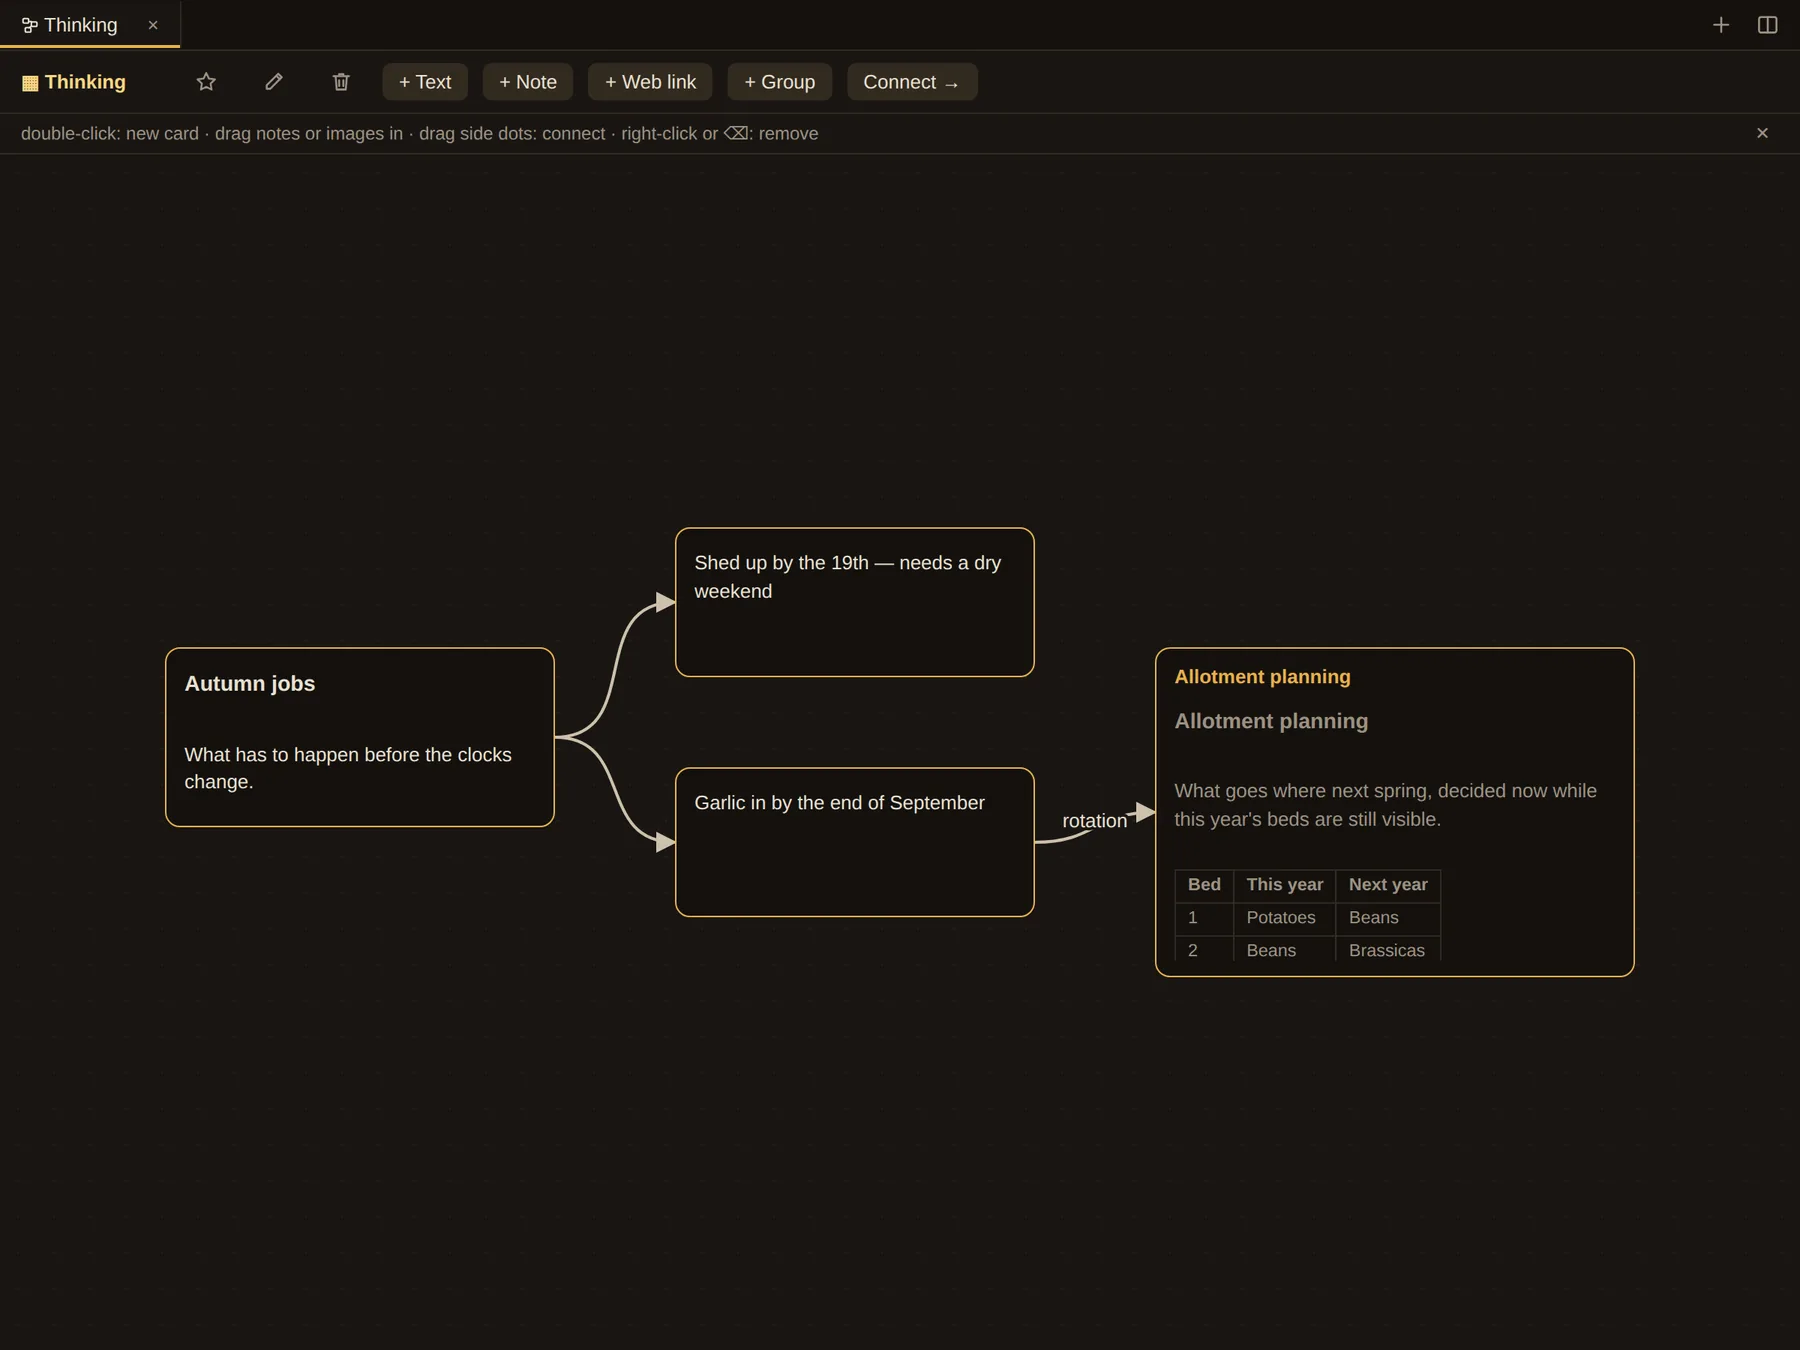
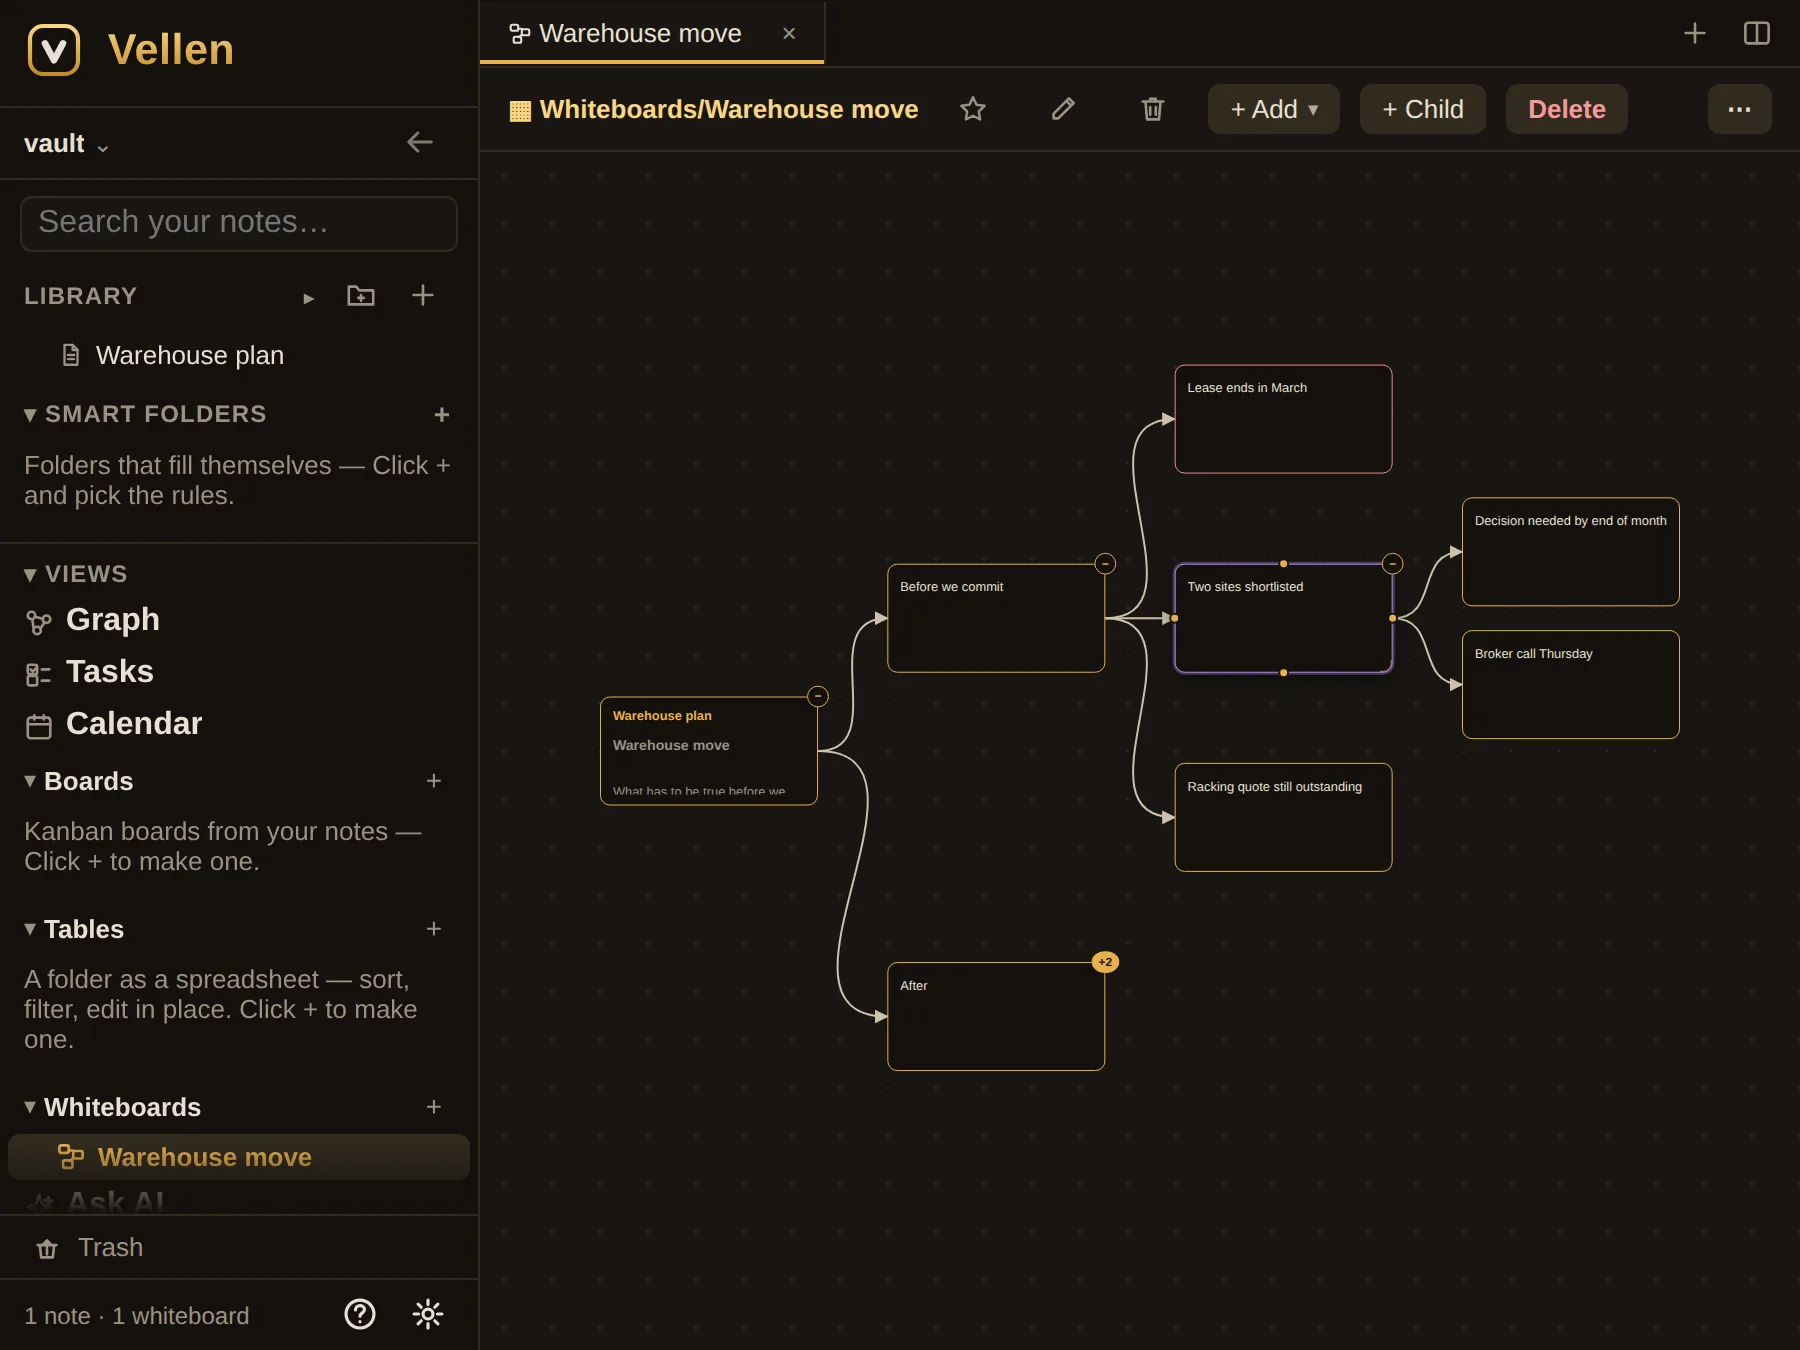
Whiteboard: mind maps, folding, outline in and out

diff --git a/index.html b/index.html
@@ -291,17 +291,18 @@
     <div class="feature">
       <div class="text">
         <h3>Whiteboards for thinking sideways</h3>
-        <p>Some ideas aren't a list yet. Put cards on a canvas, draw arrows between them, drop a whole note in as a card. The whiteboard is a file in your folder like everything else.</p>
+        <p>Some ideas aren't a list yet. Put cards on a canvas, draw arrows between them, drop a whole note in as a card &mdash; or type a mind map faster than you can arrange it: Tab for a branch, Enter for a sibling, one click to tidy the tree. The whiteboard is a file in your folder like everything else.</p>
         <ul>
-          <li>Text cards, note cards, web links, groups</li>
-          <li>Connect cards with labelled arrows</li>
+          <li>Text cards, note cards, web links, groups, and labelled arrows</li>
+          <li>Mind maps you type: fold a branch away, drag one onto a new parent, select several at once</li>
+          <li>A note's outline becomes a map; a branch becomes an outline, a checklist, or a folder of notes for a board</li>
           <li>Pinch, pan and zoom on a tablet</li>
         </ul>
       </div>
       <figure class="shot">
         <picture>
           <source srcset="assets/canvas-dark.webp" media="(prefers-color-scheme: dark)">
-          <img src="assets/canvas-light.webp" width="1800" height="1350" alt="A whiteboard with text cards connected by curved arrows and a note embedded as a card." loading="lazy">
+          <img src="assets/canvas-light.webp" width="1800" height="1350" alt="A whiteboard mind map grown from a note: the note as the root card, branches of cards connected by arrows, one branch folded behind a +2 badge." loading="lazy">
         </picture>
       </figure>
     </div>
@@ -470,7 +471,7 @@
             <tr><td>Writing, links, graph, search, tags &amp; properties<small>Live Markdown, backlinks, tables, diagrams, maths, callouts</small></td><td class="yes">✓</td><td class="yes">✓</td><td class="yes">✓</td></tr>
             <tr><td>Sync &amp; end-to-end encryption</td><td class="yes">✓</td><td class="yes">✓</td><td class="yes">✓</td></tr>
             <tr><td>Boards &amp; tables<small>Kanban and table views of a folder</small></td><td class="yes">✓</td><td class="yes">✓<small>reorder cards from the menu</small></td><td class="part">Read-only<small>swipe between columns, tap a card to open its note</small></td></tr>
-            <tr><td>Whiteboards</td><td class="yes">✓</td><td class="yes">✓<small>touch gestures</small></td><td class="yes">✓<small>touch gestures</small></td></tr>
+            <tr><td>Whiteboards<small>Mind-map keys, folding, tidy, outline in and out</small></td><td class="yes">✓</td><td class="yes">✓<small>touch gestures; branch buttons instead of keys; no multi-select</small></td><td class="yes">✓<small>touch gestures; branch buttons instead of keys; no multi-select</small></td></tr>
             <tr><td>Tasks dashboard</td><td class="yes">✓</td><td class="yes">✓</td><td class="yes">✓</td></tr>
             <tr><td>Calendar</td><td class="yes">✓<small>month grid, drag to reschedule</small></td><td class="yes">✓<small>month grid, drag to reschedule</small></td><td class="part">List of days<small>tap to open; no drag</small></td></tr>
             <tr><td>Tabs &amp; split view</td><td class="yes">✓</td><td class="yes">✓</td><td class="no">—<small>one note at a time</small></td></tr>
